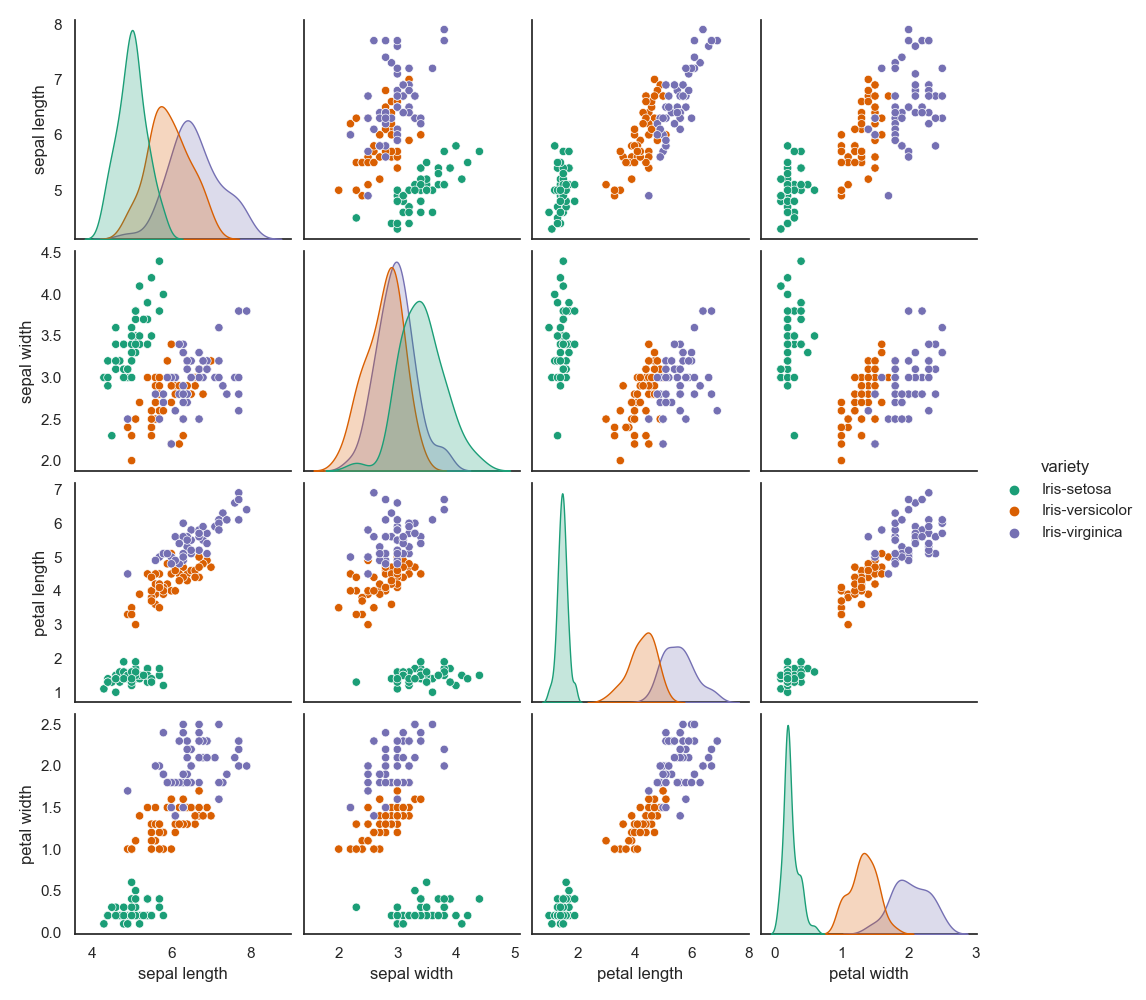
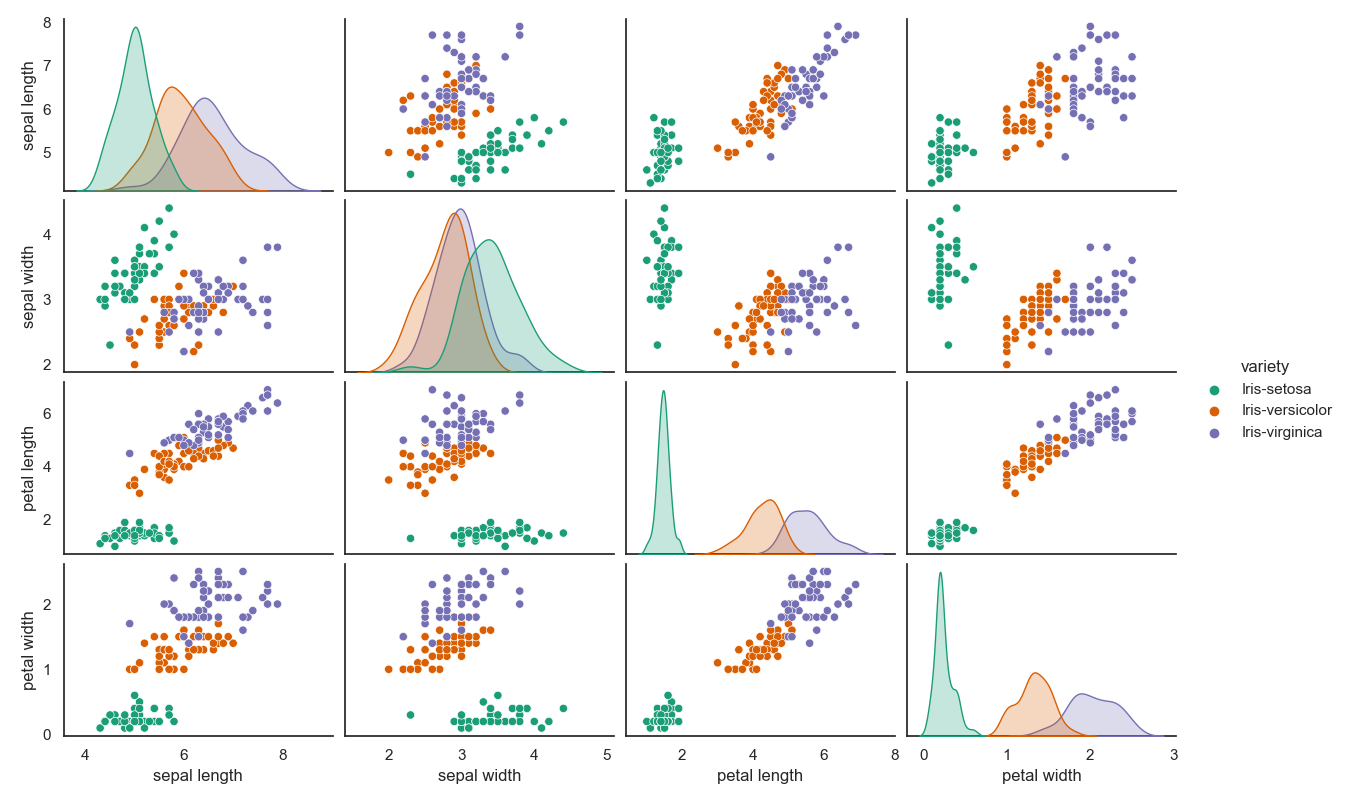
testing a smaller size for pairplot to see how it appears on Readme

diff --git a/analysis.py b/analysis.py
@@ -113,17 +113,7 @@ summary_statistics()
 
 
 # The below section of this script generates the histograms for the project.
-# sns.set() imposes one of five general themes on to the histograms.
-# sns.displot creates each histogram: here we pass in the Dataframe, df, which we will generate the histogram from,
-# specify the column to be analysed (eg. 'sepal length'), and select the number of bins for the histogram.
-# I used the 'hue' argument to cause the data in the histogram to be coloured according to what variety of Iris flower
-# the data relates to, and a legend is automatically created. 
-# This allows us to compare the distribution of each trait for each variety of Iris flower.
-# The 'stack' argument causes the data to overlap in a stacked fashion, rather than layering them over each other transparently,
-# which I think makes it harder to compare the data.
-# I experimented with different Seaborn palettes and decided upon the reversed form of the 'Set1' palette, as I find the 
-# combination of colours attractive and earthy, which is appropriate for a data analysis project about Iris flowers! 
-# They also contrast enough to make it easy to know which data is sourced from which Iris variety.
+
 # Reference: https://seaborn.pydata.org/tutorial/distributions.html?highlight=histogram
 # Reference: https://r02b.github.io/seaborn_palettes/ 
 
@@ -156,7 +146,7 @@ plt.savefig('petal_width_varieties.png')
 
 sns.set(style = "white")
 
-sns.pairplot(df, hue = "variety", palette="Dark2")
+sns.pairplot(df, hue = "variety", palette="Dark2", height=2, aspect=1.5)
 plt.savefig('iris_pairplot.png')
 
 
@@ -169,18 +159,17 @@ setosa = df.loc[df['variety']=="Iris-setosa"]
 versicolor = df.loc[df['variety']=="Iris-versicolor"]
 virginica = df.loc[df['variety']=="Iris-virginica"]
 
+#sns.pairplot(df, vars=["sepal width", "sepal length"])
+#plt.savefig("sepal_pairplot.png")
 
-sns.pairplot(setosa, palette="Dark2")
+sns.pairplot(setosa)
 plt.savefig('setosa_pairplot.png')
 
-sns.pairplot(versicolor, palette="Dark2")
+sns.pairplot(versicolor)
 plt.savefig('versicolor_pairplot.png')
 
-sns.pairplot(virginica, palette="Dark2")
+sns.pairplot(virginica)
 plt.savefig('virginica_pairplot.png')
-
-
-
 
 
 # boxplots:
